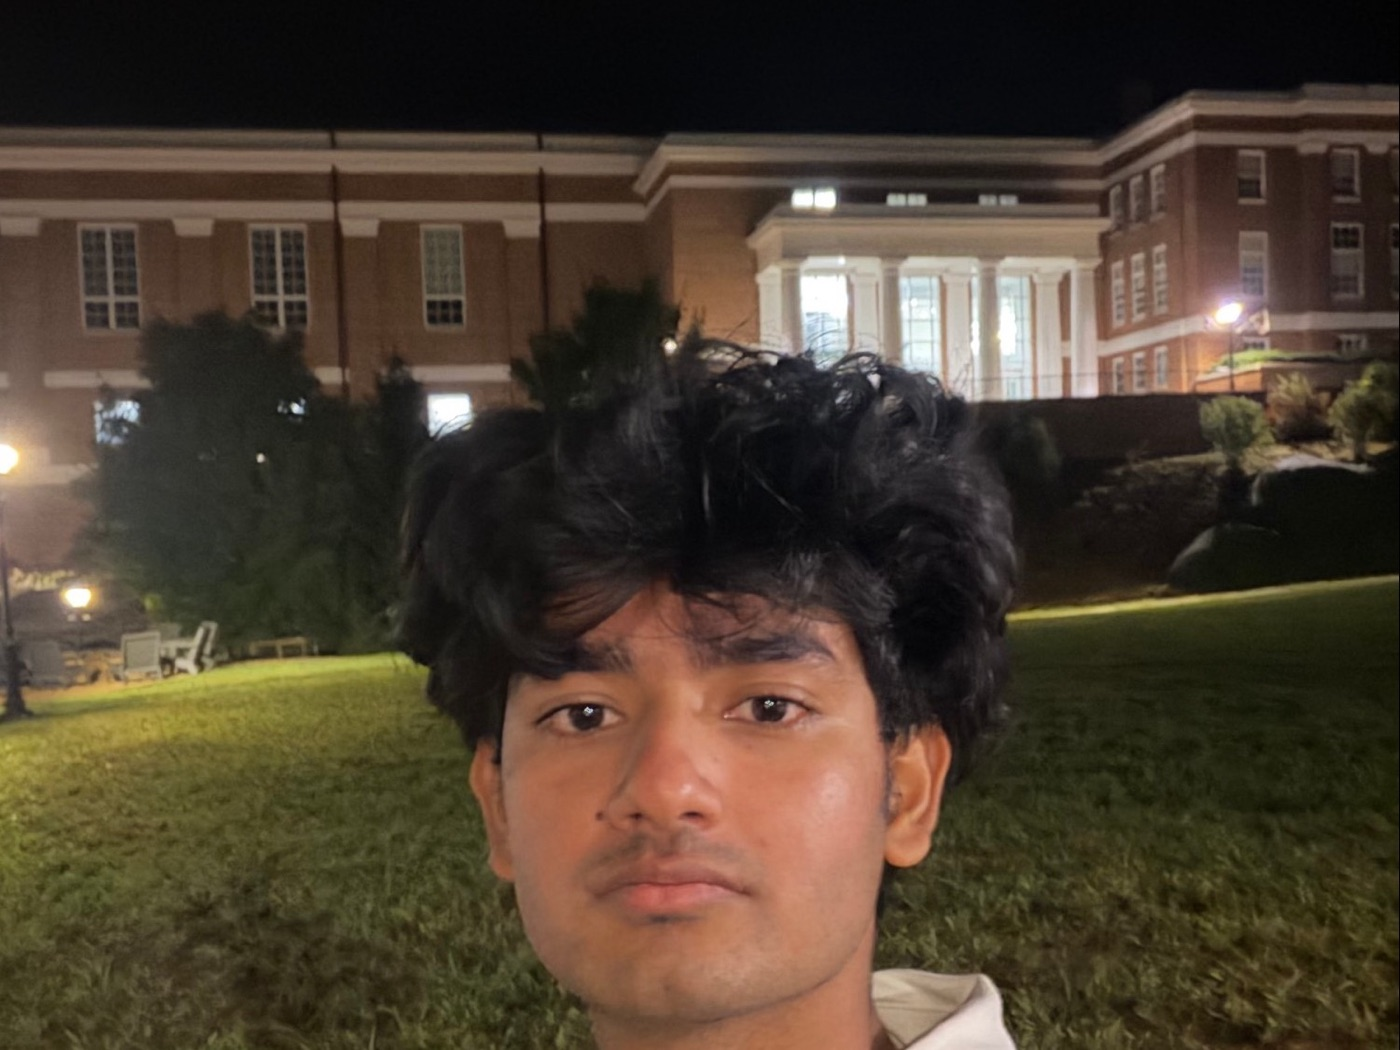
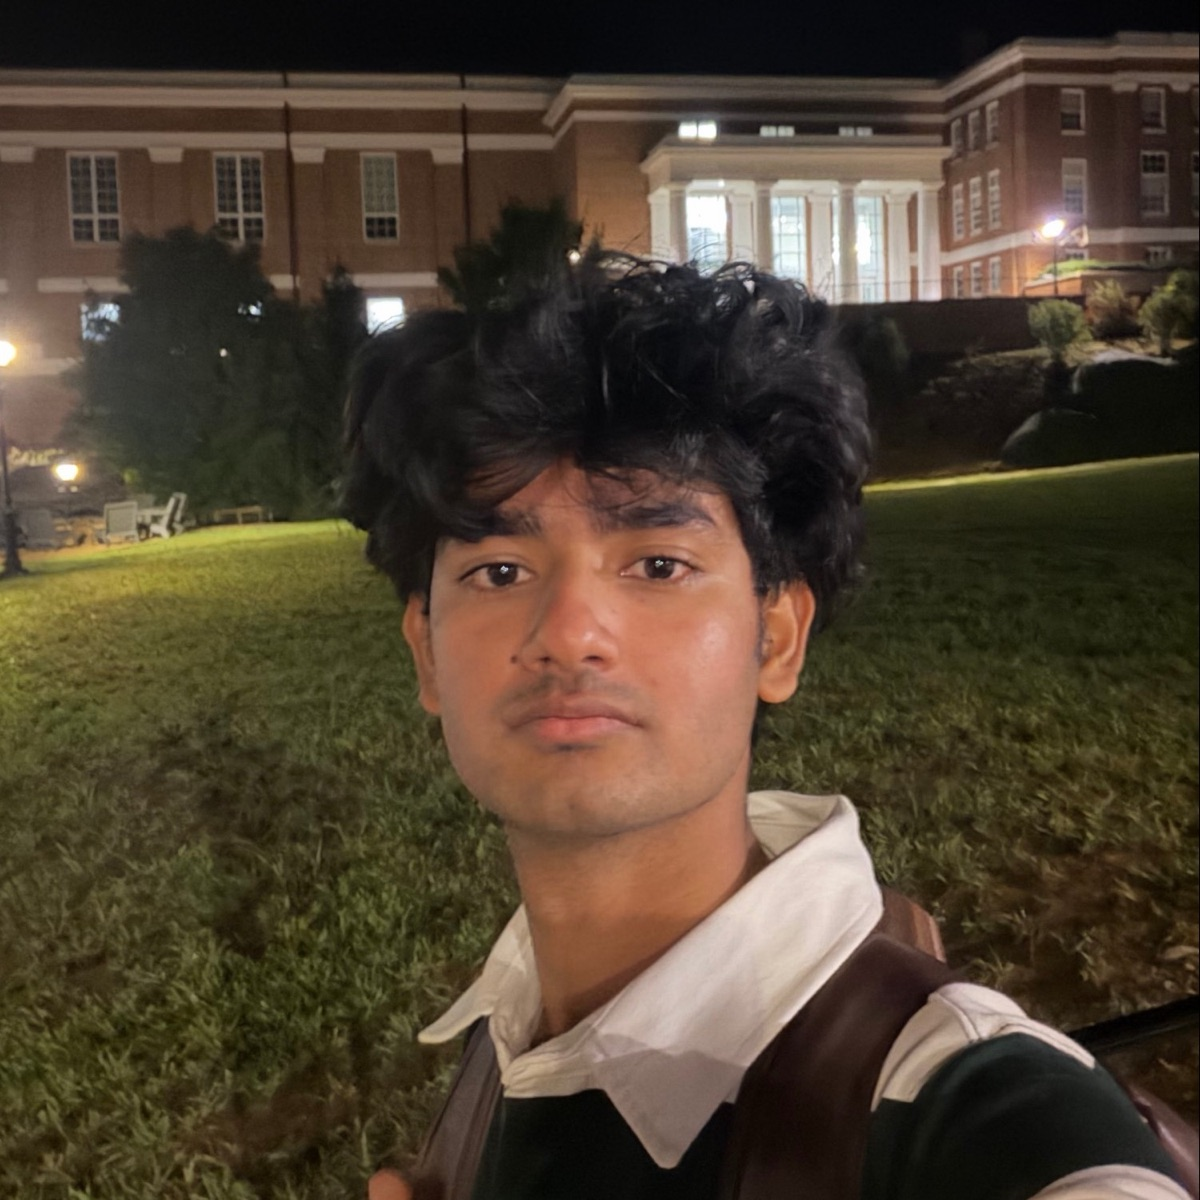
Reframe the About photo so the head isn't cut off
Square crop that keeps the building, face and shoulders; shown at most
520px wide so the photo and its caption fit on a laptop's first screen.

diff --git a/index.html b/index.html
@@ -51,10 +51,10 @@
         </span>
       </h1>
 
-      <!-- Your photo: replace assets/photo.jpg (1400 x 1050, a 4:3 crop) and update the caption below. -->
-      <figure class="figure">
+      <!-- Your photo: replace assets/photo.jpg (1200 x 1200, a square crop) and update the caption below. -->
+      <figure class="figure figure--portrait">
         <div class="figure-frame figure-frame--auto">
-          <img src="assets/photo.jpg" width="1400" height="1050"
+          <img src="assets/photo.jpg" width="1200" height="1200"
                alt="Aditya taking a selfie at night on a lawn, in front of a lit brick building with white columns.">
         </div>
         <figcaption>Fig. 1.1: Me, after dark</figcaption>

diff --git a/styles.css b/styles.css
@@ -221,6 +221,8 @@ main {
 @media (min-width: 640px) { .name-links svg { width: 30px; height: 30px; } }
 
 .figure { margin-top: 40px; }
+/* The square photo on the About page: small enough that it and its caption fit on a laptop's first screen */
+.figure--portrait { max-width: 520px; }
 .figure-frame {
   position: relative;
   aspect-ratio: 16 / 9;

diff --git a/README.md b/README.md
@@ -26,8 +26,9 @@ change the menu in each file.
 
 ## Adding your images
 
-- **Your photo:** replace `assets/photo.jpg` (currently a 1400 x 1050 crop, 4:3). If the new photo has a
-  different shape, update the `width` and `height` on its `<img>` in `index.html`, and edit the `Fig. 1.1` caption.
+- **Your photo:** replace `assets/photo.jpg` (currently a 1200 x 1200 square, shown up to 520px wide). Frame it
+  so there's room below your chin; a crop that ends at the chin looks like the head was cut off. If the new photo
+  has a different shape, update the `width` and `height` on its `<img>` in `index.html`, and edit the `Fig. 1.1` caption.
 - **A project image:** copy the `<figure class="figure">` block from the DiatoMeter entry in `projects.html`,
   point it at your new file in `assets/`, and number the caption Fig. 2.2, 2.3, and so on.
 - Keep images under about 500 KB so the pages load fast. On a Mac you can shrink one with
